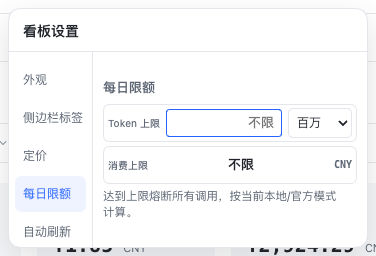
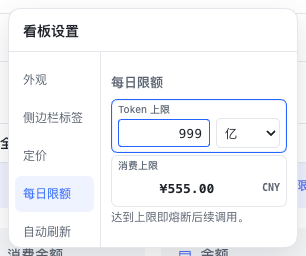
fix: restore the 290x240 settings frame and widen the limit field

diff --git a/src/panel.css b/src/panel.css
@@ -3228,15 +3228,15 @@ div:has(> [data-slot='sidebar.footer.action']){flex-wrap:wrap}.d-seat-layer{flex
   }
 }
 
-/* Final settings popover: one fixed 360x240 frame for every tab, content vertically centred. */
+/* Final settings popover: one fixed 290x240 frame for every tab, content vertically centred. */
 .d-usage .d-settings-panel,
 .d-usage .d-settings-panel.d-settings-tab-seat,
 .d-usage .d-settings-panel.d-settings-tab-budget {
-  grid-template-columns: 84px minmax(0, 1fr);
+  grid-template-columns: 92px minmax(0, 1fr);
   grid-template-rows: auto minmax(0, 1fr);
   align-content: stretch;
   box-sizing: border-box;
-  width: 360px;
+  width: 290px;
   height: 240px;
   min-height: 240px;
   max-height: 240px !important;
@@ -3360,7 +3360,7 @@ div:has(> [data-slot='sidebar.footer.action']){flex-wrap:wrap}.d-seat-layer{flex
   z-index: 30;
 }
 .d-usage .d-settings-panel:has(.d-icon-choice-inline) {
-  width: 360px;
+  width: 290px;
   height: 240px;
   min-height: 240px;
   max-height: 240px !important;
@@ -3370,9 +3370,9 @@ div:has(> [data-slot='sidebar.footer.action']){flex-wrap:wrap}.d-seat-layer{flex
   .d-usage .d-settings-panel,
   .d-usage .d-settings-panel.d-settings-tab-seat,
   .d-usage .d-settings-panel.d-settings-tab-budget {
-    left: max(12px, calc(50vw - 180px));
+    left: max(12px, calc(50vw - 145px));
     right: auto;
-    width: min(360px, calc(100vw - 24px));
+    width: min(290px, calc(100vw - 24px));
     height: 240px;
     min-height: 240px;
     max-height: min(240px, calc(100vh - 96px)) !important;
@@ -3441,19 +3441,24 @@ div:has(> [data-slot='sidebar.footer.action']){flex-wrap:wrap}.d-seat-layer{flex
 .d-usage .d-settings-panel.d-settings-tab-budget > .d-settings-budget { align-content: center; gap: 8px; overflow: hidden; }
 .d-usage .d-budget-settings { display: grid; gap: 4px; min-width: 0; padding: 0; }
 .d-usage .d-budget-settings .d-token-limit-unit { flex: none; width: 64px; margin: 0; padding: 0 4px; }
+/* 面板固定回 290×240（与其他设置页一致）；限额行改成标签独占一行，数字框拿满剩余宽度。 */
 .d-usage .d-budget-settings .d-fx-row {
-  height: 38px;
-  min-height: 38px;
-  max-height: 38px;
+  flex-wrap: wrap;
+  align-items: center;
+  gap: 4px 6px;
+  height: auto;
+  min-height: 0;
+  max-height: none;
+  min-width: 0;
+  max-width: 100%;
+  padding: 4px 6px;
 }
-/* 限额页不再单独改尺寸：所有设置页共用同一块固定面板（360×240）。 */
-.d-usage .d-budget-settings .d-fx-row { gap: 6px; min-width: 0; max-width: 100%; }
-.d-usage .d-budget-settings .d-fx-label { flex: 0 1 auto; min-width: 0; }
-.d-usage .d-budget-settings { grid-template-columns: minmax(0, 1fr); }
+.d-usage .d-budget-settings .d-fx-label { flex: 1 1 100%; min-width: 0; }
+.d-usage .d-budget-settings { grid-template-columns: minmax(0, 1fr); gap: 2px; }
 .d-usage .d-budget-settings .d-fx-input {
-  flex: 1 1 96px;
+  flex: 1 1 0;
   width: auto;
-  min-width: 96px;
+  min-width: 0;
   text-align: right;
 }
 .d-usage .d-budget-settings .d-settings-label { margin: 0; padding: 0; }

diff --git a/test/panel-css.test.js b/test/panel-css.test.js
@@ -5,23 +5,23 @@ import { readFileSync } from "node:fs";
 const css = readFileSync(new URL("../src/panel.css", import.meta.url), "utf8");
 
 test("daily limit rows keep a usable numeric field instead of collapsing", () => {
-  assert.match(css, /\.d-settings-panel\.d-settings-tab-budget[^{]*\{[^}]*width:\s*360px/);
-  assert.match(css, /\.d-budget-settings \.d-fx-input\s*\{[^}]*min-width:\s*96px/);
+  assert.match(css, /\.d-budget-settings \.d-fx-label\s*\{[^}]*flex:\s*1 1 100%/);
   assert.match(css, /\.d-budget-settings \.d-fx-row\s*\{[^}]*min-width:\s*0[^}]*max-width:\s*100%/);
   assert.match(css, /\.d-budget-settings\s*\{[^}]*grid-template-columns:\s*minmax\(0,\s*1fr\)/);
 });
 
-test("every settings tab shares one fixed panel frame", () => {
+test("every settings tab shares the same fixed panel frame", () => {
   const frame = css.slice(css.indexOf("Final settings popover"));
-  assert.match(frame, /\.d-settings-panel,\s*\.d-usage \.d-settings-panel\.d-settings-tab-seat,\s*\.d-usage \.d-settings-panel\.d-settings-tab-budget\s*\{[^}]*width:\s*360px/);
-  const budgetRules = css.match(/\.d-settings-tab-budget\s*\{[^}]*\}/g) || [];
+  const start = frame.indexOf(".d-settings-panel,");
+  const block = frame.slice(start, frame.indexOf("}", start));
+  assert.match(block, /\.d-settings-panel\.d-settings-tab-budget/);
+  assert.match(block, /width:\s*290px/);
+  const budgetRules = css.match(/\.d-settings-tab-budget\s*\{[^}]*\}/g) ?? [];
   assert.ok(budgetRules.length >= 1, "the budget tab must use the shared frame");
-  for (const rule of budgetRules) assert.match(rule, /width:\s*(min\()?360px/, "the budget tab must keep the shared 360px width");
-  assert.doesNotMatch(css, /\.d-settings-panel\s*\{[^}]*transition:[^}]*width/);
+  for (const rule of budgetRules) assert.match(rule, /width:\s*(min\()?290px/, "the budget tab must keep the shared 290px width");
 });
 
-test("narrow viewports stack the amount above the unit instead of squeezing it", () => {
+test("narrow viewports keep the amount readable", () => {
   const narrow = css.slice(css.lastIndexOf("@media (max-width: 560px)"));
   assert.match(narrow, /\.d-budget-settings \.d-fx-row\s*\{[^}]*flex-wrap:\s*wrap/);
-  assert.match(narrow, /\.d-budget-settings \.d-fx-input\s*\{[^}]*flex:\s*1 1 100%/);
 });

diff --git a/src/client.js b/src/client.js
@@ -1075,7 +1075,7 @@ function BudgetSettings(props) {
     jsxs("small", { className: "d-budget-hint", role: blocked ? "alert" : "status", title: usage.length ? usageSource + "已用 " + usage.join(" · ") : undefined, children: [
       blocked
         ? jsx("b", { children: "已达到每日限额，后续调用已熔断；次日 00:00 或提高限额后恢复" })
-        : jsx("span", { children: "达到上限熔断所有调用，按当前本地/官方模式计算。" + (incomplete ? "统计不完整，已知用量达限仍熔断。" : "") }),
+        : jsx("span", { children: "达到上限即熔断后续调用。" + (incomplete ? "统计不完整，按已知用量判断。" : "") }),
     ] }),
     error || saved || (info && !info.status.storageAvailable) ? jsx("span", { className: "d-budget-inline-status" + (error ? " d-budget-warning" : ""), role: error ? "alert" : "status", title: error || (info ? budgetLabel(info) : ""), children: error || (saved ? "每日限额已保存" : "宿主配置存储不可用") }) : null,
   ] });

diff --git a/docs/ui-review/daily-limit-input-width.md b/docs/ui-review/daily-limit-input-width.md
@@ -12,7 +12,7 @@
 |---|---|---|---|---|---|
 | 1.0.1 | 290px | 100px | 318px（超出面板 53px） | 41.9px | 行溢出被 `overflow:hidden` 裁掉，单位下拉右侧被切 |
 | 1.0.2 | 360px | 84px | 254px（贴合面板） | 115.9px | 完整可见，可点击、可输入 |
-| 1.0.3 | 360px（所有分页固定同一尺寸） | 84px | 252px | 116px | 数字、单位都能看清，切换分页不再变尺寸 |
+| 1.0.3 | 290px（与其它分页一致） | 92px | 200px | 92px（标签独立成行后） | 数字、单位都能看清，面板尺寸与其它分页相同 |
 
 1.0.1 的行宽 318px 来自 `.d-budget-settings` 的隐式网格列按 min-content 撑开，而 `.d-fx-input` 的基础规则是 `flex: 1 1 0; width: 0; min-width: 0`——网格列比容器宽 53px，输入框又被压缩到 0 再按剩余空间分配，于是只剩几十像素。
 
@@ -20,9 +20,10 @@
 
 `src/panel.css`（1.0.2 修宽度，1.0.3 把尺寸统一成固定一块）：
 
-- 固定框架（`.d-settings-panel` + `-seat` + `-budget` 同一条规则）：`width: 360px; height: 240px; grid-template-columns: 84px minmax(0, 1fr)`，五个分页共用，切换分页不再改尺寸，也没有过渡动画。
-- 窄屏 `≤560px`：同一框架改为 `min(360px, 100vw - 24px)`，居中定位。
-- 取消 1.0.2 的限额页单独加宽与 1.0.3 试过的宽度过渡（用户反馈「应该都是固定的」）。
+- 固定框架（`.d-settings-panel` + `-seat` + `-budget` 同一条规则）：`width: 290px; height: 240px; grid-template-columns: 92px minmax(0, 1fr)`——就是改版前的外观/定价页尺寸，五个分页共用，切换分页不改尺寸、没有过渡。
+- 窄屏 `≤560px`：同一框架改为 `min(290px, 100vw - 24px)`，居中定位。
+- 限额行改为两行：`.d-budget-settings .d-fx-label { flex: 1 1 100%; }`，数字框 `flex: 1 1 0` 拿满剩余宽度，单位下拉固定 64px；行内边距收到 `4px 6px`，保证红色超限提示出现时内容仍不越界（实测 `scrollHeight 195 = clientHeight 195`）。
+- 底部说明收敛成一行「达到上限即熔断后续调用。」，统计不完整时才追加「统计不完整，按已知用量判断。」。
 - `.d-budget-settings`：显式 `grid-template-columns: minmax(0, 1fr)`，不再让隐式列按 min-content 溢出。
 - `.d-budget-settings .d-fx-input`：`flex: 1 1 96px; width: auto; min-width: 96px; text-align: right`。
 - `.d-budget-settings .d-fx-row`：`min-width: 0; max-width: 100%`。
@@ -34,7 +35,9 @@
 
 ![每日限额行在 1.0.2 下的版式](daily-limit-input-width.png)
 
-![五个分页共用 360×240 固定面板，限额页输入框 116px（1.0.3）](daily-limit-fixed-panel.png)
+![290×240 固定面板，限额行标签在上、输入框 92px（1.0.3）](daily-limit-fixed-panel.png)
+
+![输入 1000 时的红框与红字提示，内容仍不越界](daily-limit-fixed-panel-invalid.png)
 
 验证方式：本地开发 profile 用 `dsh plugin --profile dshfix add /Users/sdiwen/IdeaProjects/DeepSeek-Usage` 软链仓库源码，重启 `dsh --profile dshfix --port 0 --no-open`，Playwright 真实鼠标依次点开五个分页，逐个读取面板 `getBoundingClientRect()` 与子元素越界情况：
 

diff --git a/CHANGELOG.md b/CHANGELOG.md
@@ -5,9 +5,9 @@ Release，正文即为插件市场「更新内容」里显示的版本说明。
 
 ## 1.0.3 — 2026-11-22
 
-- 设置面板改为**固定一块 360×240**：外观、侧边栏标签、定价、每日限额、自动刷新五个分页共用同一尺寸，切换分页不再缩放、不再跳动。
-- 每日限额的数字输入框可用宽度 116px（此前 1.0.1 只有 41.9px），Token 上限与消费上限的数值、单位都能一次看清；红色超限提示出现时也不挤出面板。
-- 提示文案改用 `text-wrap: pretty`，避免中文行末只剩「计算。」这类孤行。
+- 设置面板回到原来的 **290×240**，五个分页（外观、侧边栏标签、定价、每日限额、自动刷新）共用同一尺寸，切换分页不再改尺寸。
+- 每日限额每行改成「标签在上、输入框在下」：标签独占一行后，Token 上限与消费上限的数字框可用宽度从 41.9px 提到 92px，数字、单位都能看清；红色超限提示出现时不挤压、不裁切。
+- 限额底部说明收敛为一行「达到上限即熔断后续调用。」，统计不完整时才追加一句，避免面板被三行小字撑满。
 - 116 项回归测试通过（含「所有分页共用固定面板」的版式守护），客户端体积与安装包完整性检查通过。
 
 ## 1.0.2 — 2026-11-22
